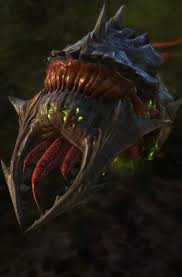
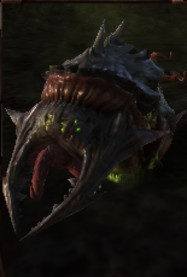
Shits done!

diff --git a/Zerg-wiki/broodlord.html b/Zerg-wiki/broodlord.html
@@ -21,9 +21,9 @@
 
         <div class="overbar">
             <h2>Broodlord</h2>
-                <img src="./bilder/broodlordmodel.png" alt="" class="unit">
+                <img src="./bilder/broodlordpfp.png" alt="" class="unit">
 
-                <img src="./bilder/sigil.png" alt="" class="sigil">
+                <img onclick="sigilspin()" src="./bilder/sigil.png" alt="" class="sigil">
 
         </div>
 <main>
@@ -115,6 +115,7 @@
             <p></p>
         </footer>
     </div>
+    <script src="javascript.js"></script>
 </body>
 
 </html>

diff --git a/Zerg-wiki/ultralisk.html b/Zerg-wiki/ultralisk.html
@@ -23,7 +23,7 @@
             <h2>Ultralisk</h2>
                 <img src="./bilder/Ultraliskmodel.png" alt="" class="unit">
 
-                <img src="./bilder/sigil.png" alt="" class="sigil">
+                <img onclick="sigilspin()" src="./bilder/sigil.png" alt="" class="sigil">
 
         </div>
 <main>
@@ -116,6 +116,7 @@
             <p>Info tagen från <a href="https://liquipedia.net/starcraft2/Zergling_(Legacy_of_the_Void)">liquipedia</a></p>
         </footer>
     </div>
+    <script src="javascript.js"></script>
 </body>
 
 </html>

diff --git a/Zerg-wiki/lurker.html b/Zerg-wiki/lurker.html
@@ -23,8 +23,7 @@
             <h2>Lurker</h2>
                 <img src="./bilder/lurkermodel.png" alt="" class="unit">
 
-                <img src="./bilder/sigil.png" alt="" class="sigil">
-
+                <img onclick="sigilspin()" src="./bilder/sigil.png" alt="" class="sigil">
         </div>
 <main>
     <div class="Gubbinfo">
@@ -114,6 +113,7 @@
             <p></p>
         </footer>
     </div>
+    <script src="javascript.js"></script>
 </body>
 
 </html>

diff --git a/Zerg-wiki/coruptor.html b/Zerg-wiki/coruptor.html
@@ -23,7 +23,8 @@
             <h2>Coruptor</h2>
                 <img src="./bilder/coruptormodel.png" alt="" class="unit">
 
-                <img src="./bilder/sigil.png" alt="" class="sigil">
+                
+                <img onclick="sigilspin()" src="./bilder/sigil.png" alt="" class="sigil">
 
         </div>
 <main>
@@ -113,6 +114,7 @@
             <p></p>
         </footer>
     </div>
+    <script src="javascript.js"></script>
 </body>
 
 </html>

diff --git a/Zerg-wiki/hydralisk.html b/Zerg-wiki/hydralisk.html
@@ -23,7 +23,7 @@
             <h2>Hydralisk</h2>
                 <img src="./bilder/hydraliskmodel.png" alt="" class="unit">
 
-                <img src="./bilder/sigil.png" alt="" class="sigil">
+                <img onclick="sigilspin()" src="./bilder/sigil.png" alt="" class="sigil">
 
         </div>
 <main>
@@ -114,6 +114,7 @@
             <p></p>
         </footer>
     </div>
+    <script src="javascript.js"></script>
 </body>
 
 </html>

diff --git a/Zerg-wiki/infestor.html b/Zerg-wiki/infestor.html
@@ -23,7 +23,7 @@
             <h2>Infestor</h2>
                 <img src="./bilder/infestormodel.png" alt="" class="unit">
 
-                <img src="./bilder/sigil.png" alt="" class="sigil">
+                <img onclick="sigilspin()" src="./bilder/sigil.png" alt="" class="sigil">
 
         </div>
 <main>
@@ -114,6 +114,7 @@
             <p></p>
         </footer>
     </div>
+    <script src="javascript.js"></script>
 </body>
 
 </html>

diff --git a/Zerg-wiki/mutalisk.html b/Zerg-wiki/mutalisk.html
@@ -23,7 +23,7 @@
             <h2>Mutalisk</h2>
                 <img src="./bilder/mutaliskmodel.png" alt="" class="unit">
 
-                <img src="./bilder/sigil.png" alt="" class="sigil">
+                <img onclick="sigilspin()" src="./bilder/sigil.png" alt="" class="sigil">
 
         </div>
 <main>
@@ -114,6 +114,7 @@
             <p></p>
         </footer>
     </div>
+    <script src="javascript.js"></script>
 </body>
 
 </html>

diff --git a/Zerg-wiki/Zergling.html b/Zerg-wiki/Zergling.html
@@ -23,7 +23,7 @@
             <h2>Zergling</h2>
                 <img src="./bilder/zergling.png" alt="" class="unit">
 
-                <img src="./bilder/sigil.png" alt="" class="sigil">
+                <img onclick="sigilspin()" src="./bilder/sigil.png" alt="" class="sigil">
 
         </div>
     <main>
@@ -116,6 +116,7 @@
             <p></p>
         </footer>
     </div>
+    <script src="javascript.js"></script>
 </body>
 
 </html>

diff --git a/Zerg-wiki/drone.html b/Zerg-wiki/drone.html
@@ -23,7 +23,7 @@
             <h2>Drone</h2>
                 <img src="./bilder/dronemodel.png" alt="" class="unit">
 
-                <img src="./bilder/sigil.png" alt="" class="sigil">
+                <img onclick="sigilspin()" src="./bilder/sigil.png" alt="" class="sigil">
 
         </div>
 <main>
@@ -112,6 +112,7 @@
             <p></p>
         </footer>
     </div>
+    <script src="javascript.js"></script>
 </body>
 
 </html>

diff --git a/Zerg-wiki/larva.html b/Zerg-wiki/larva.html
@@ -23,7 +23,7 @@
             <h2>larva</h2>
                 <img src="./bilder/larvamodel.png" alt="" class="unit">
 
-                <img src="./bilder/sigil.png" alt="" class="sigil">
+                <img onclick="sigilspin()" src="./bilder/sigil.png" alt="" class="sigil">
 
         </div>
 <main>
@@ -110,6 +110,7 @@
             <p></p>
         </footer>
     </div>
+    <script src="javascript.js"></script>
 </body>
 
 </html>

diff --git a/Zerg-wiki/queen.html b/Zerg-wiki/queen.html
@@ -23,7 +23,7 @@
             <h2>Queen</h2>
                 <img src="./bilder/Queenmodel.png" alt="" class="unit">
 
-                <img src="./bilder/sigil.png" alt="" class="sigil">
+                <img onclick="sigilspin()" src="./bilder/sigil.png" alt="" class="sigil">
 
         </div>
 <main>
@@ -114,6 +114,7 @@
             <p></p>
         </footer>
     </div>
+    <script src="javascript.js"></script>
 </body>
 
 </html>

diff --git a/Zerg-wiki/roach.html b/Zerg-wiki/roach.html
@@ -23,7 +23,7 @@
             <h2>Roach</h2>
                 <img src="./bilder/roachmodel.png" alt="" class="unit">
 
-                <img src="./bilder/sigil.png" alt="" class="sigil">
+                <img onclick="sigilspin()" src="./bilder/sigil.png" alt="" class="sigil">
 
         </div>
 <main>
@@ -114,6 +114,7 @@
             <p></p>
         </footer>
     </div>
+    <script src="javascript.js"></script>
 </body>
 
 </html>
